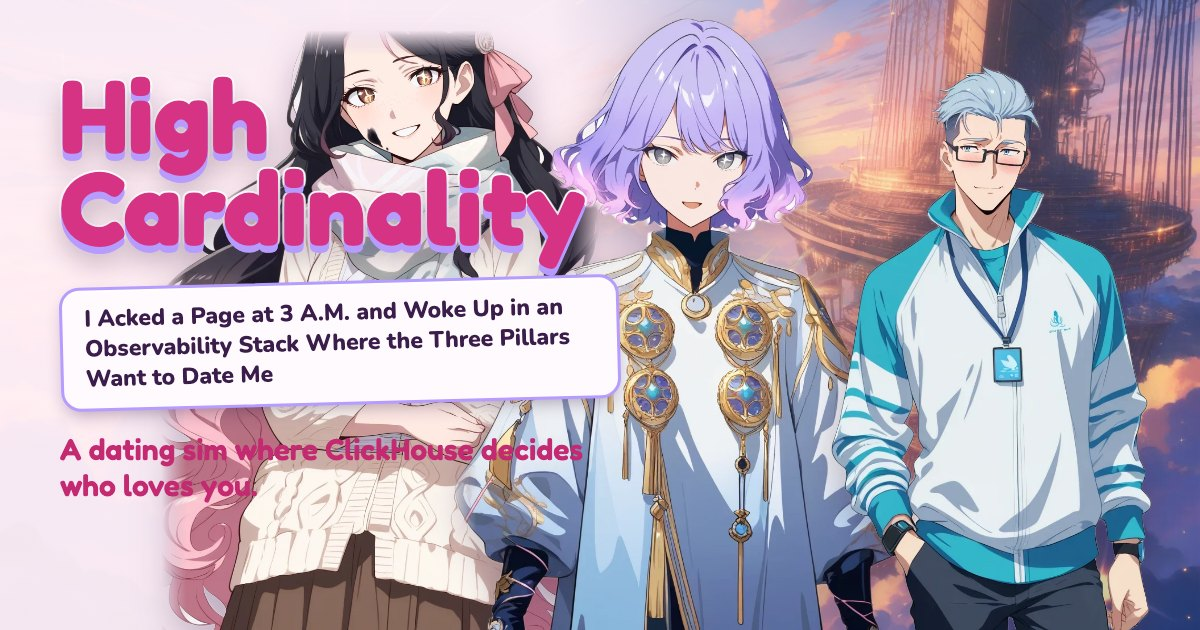
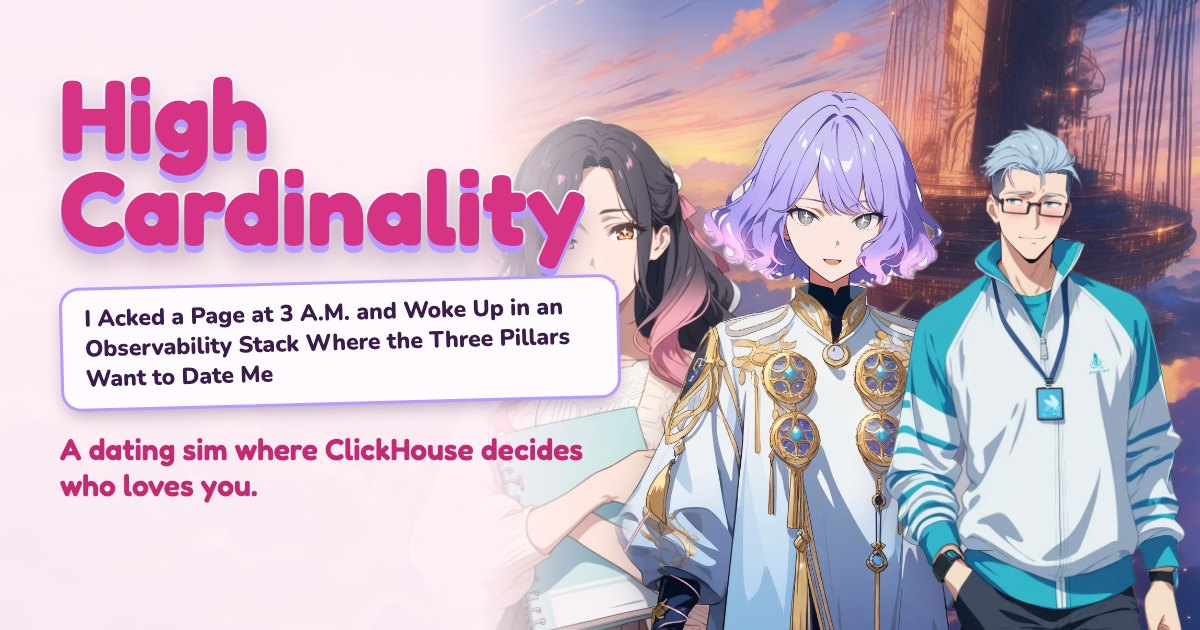
Logs re-render; illustrations above sprites
- Logs: new sprite set and ending CG without the cheek mark, hair inside a wider
  frame, crown completed by outpainting the top (it was clipped by the frame)
- polycule CG and social card rebuilt from the new sprites; card layout shows all
  three pillars
- an ending CG now sits above the portrait, and the portrait hides under it

diff --git a/src/style.css b/src/style.css
@@ -64,7 +64,9 @@ button, label, select, input, #box, summary { touch-action: manipulation; -webki
 #bg::after { content: ''; position: absolute; inset: 0; background: linear-gradient(to top, rgba(58, 29, 74, 0.35), transparent 45%); }
 #bg .layer { position: absolute; inset: 0; background-size: cover; background-position: center; opacity: 0; transition: opacity 0.7s ease; }
 #bg .layer.on { opacity: 1; }
-#cg { position: absolute; inset: 0; width: 100%; height: 100%; object-fit: cover; animation: fade 0.8s ease; }
+/* An illustration replaces the sprites (VN convention): it sits above the portrait, and the portrait hides. */
+#cg { position: absolute; inset: 0; width: 100%; height: 100%; object-fit: cover; animation: fade 0.8s ease; z-index: 2; }
+#stage:has(#cg:not([hidden])) #portrait { visibility: hidden; }
 #portrait {
   position: absolute; left: 50%; bottom: 0; transform: translateX(-50%);
   height: min(88dvh, 1100px); display: flex; align-items: flex-end; justify-content: center; pointer-events: none;
@@ -201,7 +203,7 @@ td { max-width: 46ch; overflow: hidden; text-overflow: ellipsis; }
 @keyframes rise { 0% { opacity: 0; transform: translate(0, 0) rotate(0); } 10% { opacity: 1; } 100% { opacity: 0; transform: translate(var(--x), -92vh) rotate(var(--r)); } }
 
 /* ---------- manga flourishes (src/fx.ts) ---------- */
-#fx { position: absolute; inset: 0; pointer-events: none; overflow: hidden; z-index: 1; }
+#fx { position: absolute; inset: 0; pointer-events: none; overflow: hidden; z-index: 3; }
 .onomato {
   position: absolute; transform: translate(-50%, -50%) rotate(var(--tilt)); white-space: nowrap;
   font-family: var(--font-display); font-weight: 700; letter-spacing: 0.02em; line-height: 1;
